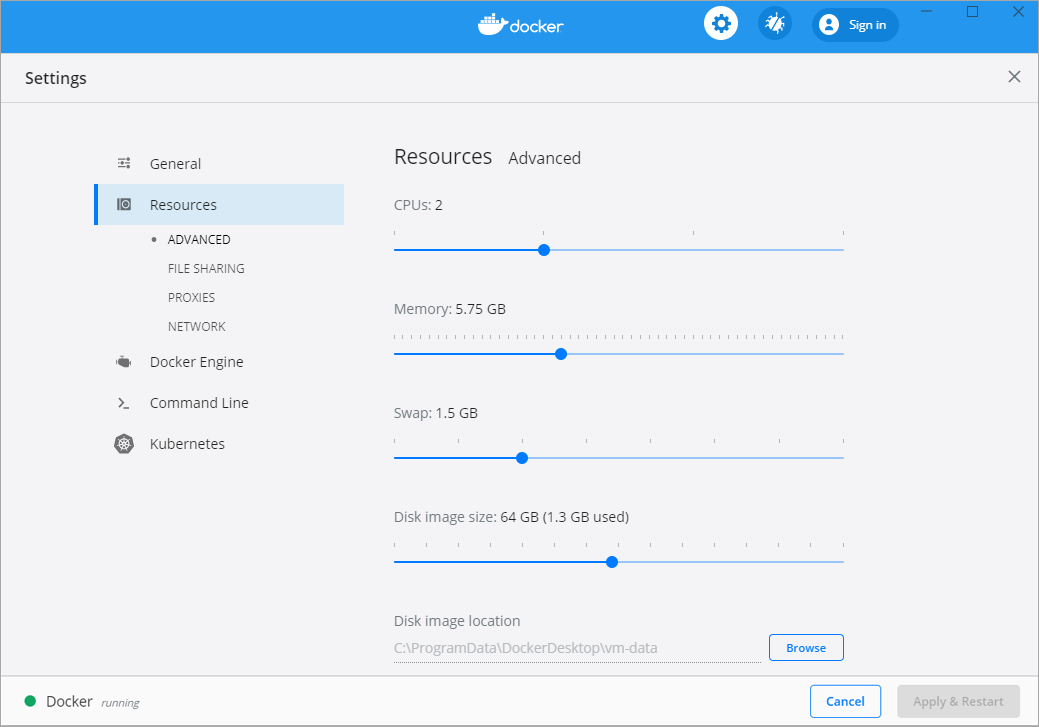
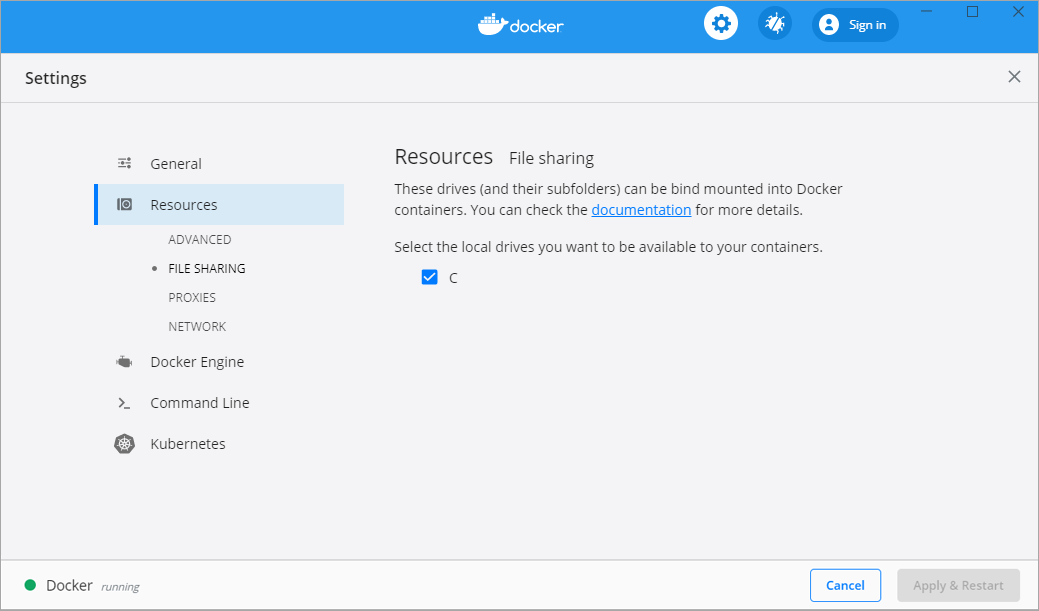
editing

diff --git a/unity/how-to-install-docker.md b/unity/how-to-install-docker.md
@@ -24,6 +24,10 @@
 	
 	![docker-settings](how-to-install-docker-5.png) 
 	
+	Also you can verify and adjust Advanced settings accordingly 
+	
+	![docker-settings-advanced](how-to-install-docker-6.png) 
+	
 **Environment Management**
 
 [Overview](./envmgmt/overview.md): GitOps approach implemented using Terraform, Helm, AWS EC2
